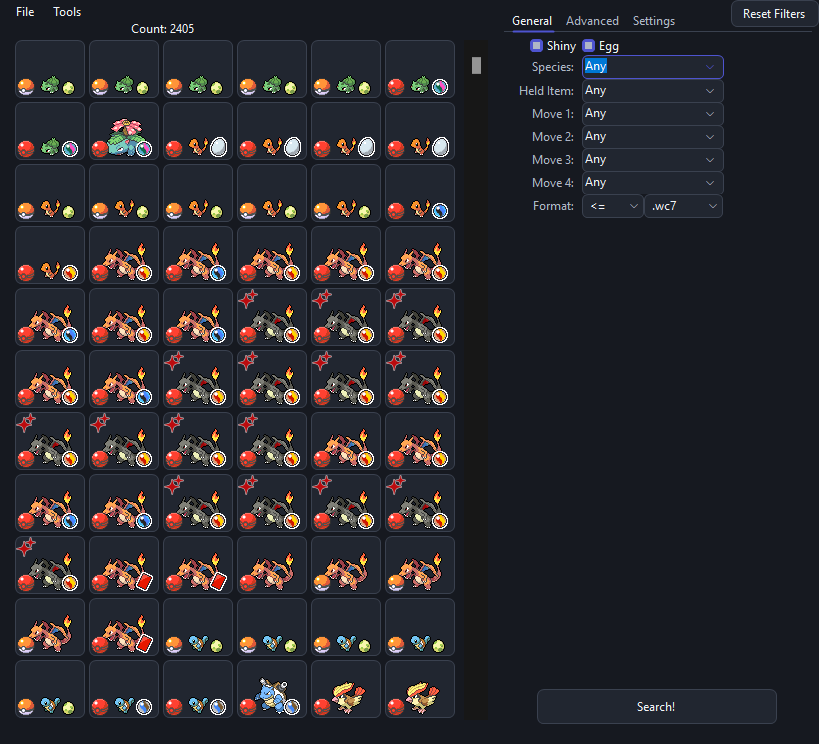
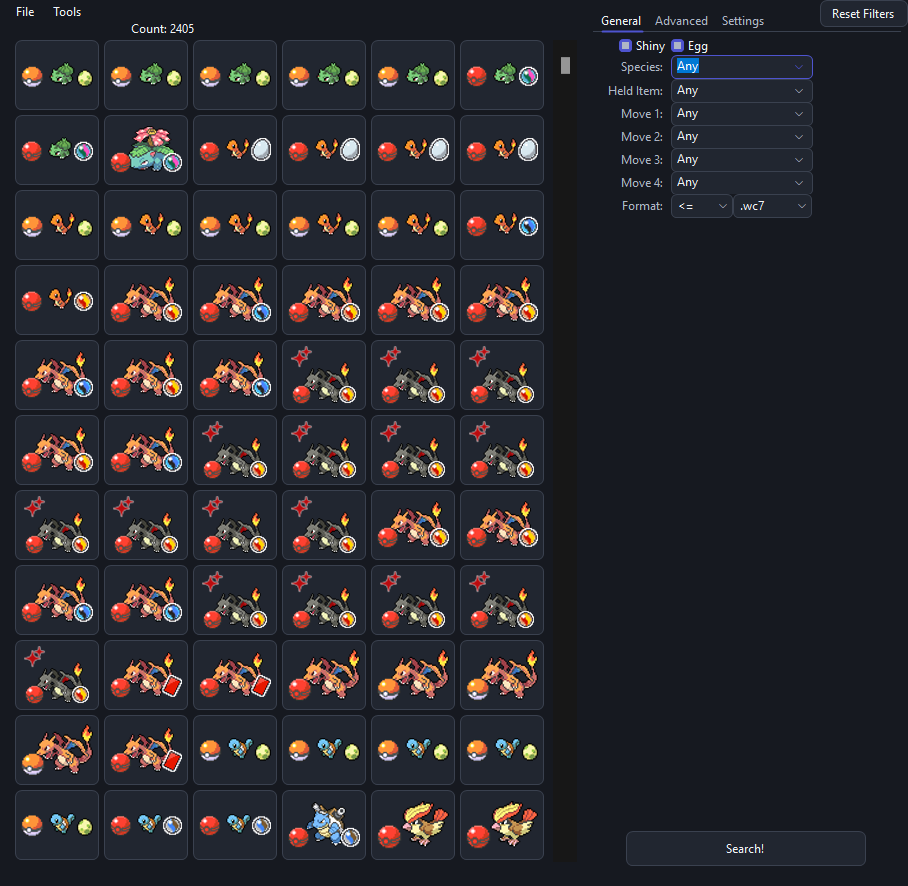
Sprites fill their slot tiles and the summary card, party tiles match the box tiles, fix a startup crash when the splash screen closes, refreshed screenshots

diff --git a/PKHeX.WinForms/Controls/PKM Editor/SelectablePictureBox.cs b/PKHeX.WinForms/Controls/PKM Editor/SelectablePictureBox.cs
@@ -1,5 +1,8 @@
 using System;
 using System.Drawing;
+using System.Drawing.Drawing2D;
+using System.Drawing.Imaging;
+using System.Runtime.InteropServices;
 using System.Windows.Forms;
 using System.Windows.Forms.Automation;
 using PKHeX.WinForms.Theming;
@@ -20,6 +23,11 @@ public class SelectablePictureBox : PictureBox
     /// Draws the control as a rounded slot tile (used by box/party grids) instead of a plain rectangle.
     /// </summary>
     public bool DrawTile { get; set; }
+
+    /// <summary>
+    /// Shows the visible part of the sprite enlarged to fill the control (always on for <see cref="DrawTile"/>).
+    /// </summary>
+    public bool ZoomSprite { get; set; }
 
     protected override void OnMouseDown(MouseEventArgs e)
     {
@@ -62,13 +70,24 @@ public class SelectablePictureBox : PictureBox
         if (BackColor.A != 0) // slot state tint (e.g. invalid data)
             Shapes.Fill(g, tile, radius, BackColor);
 
-        if (BackgroundImage is { } bg)
-            g.DrawImage(bg, (Width - bg.Width) / 2, (Height - bg.Height) / 2, bg.Width, bg.Height);
+        if (BackgroundImage is { } bg) // hover / drag highlight: a full-sprite glow, stretched over the tile
+        {
+            g.InterpolationMode = InterpolationMode.HighQualityBilinear;
+            g.DrawImage(bg, Rectangle.Inflate(tile, -2, -2));
+        }
     }
 
     protected override void OnPaint(PaintEventArgs pe)
     {
-        base.OnPaint(pe);
+        if ((DrawTile || ZoomSprite) && Image is Bitmap sprite)
+        {
+            var s = GetTileSprite(sprite);
+            pe.Graphics.DrawImageUnscaled(s, (Width - s.Width) / 2, (Height - s.Height) / 2);
+        }
+        else
+        {
+            base.OnPaint(pe);
+        }
         if (!Focused)
             return;
         var rc = ClientRectangle;
@@ -82,5 +101,88 @@ public class SelectablePictureBox : PictureBox
         rc.Height -= 2;
         rc.Offset(1, 1);
         Shapes.Fill(pe.Graphics, rc, LogicalToDeviceUnits(6), Color.Empty, Theme.Current.Accent, 2f);
+    }
+
+    // Slot sprites sit on a mostly empty canvas; tiles show the visible part (Pokémon plus its item / shiny marks)
+    // enlarged to fill the tile. Rendered once per sprite and tile size.
+    private Bitmap? _tileSprite;
+    private Image? _tileSource;
+    private Size _tileSize;
+
+    private Bitmap GetTileSprite(Bitmap src)
+    {
+        if (_tileSprite is not null && ReferenceEquals(_tileSource, src) && _tileSize == Size)
+            return _tileSprite;
+        _tileSprite?.Dispose();
+        (_tileSource, _tileSize) = (src, Size);
+
+        var box = OpaqueBounds(src);
+        int pad = LogicalToDeviceUnits(6);
+        float canvasFit = Math.Min((float)Width / src.Width, (float)Height / src.Height);
+        float contentFit = Math.Min((float)(Width - (2 * pad)) / box.Width, (float)(Height - (2 * pad)) / box.Height);
+        // Same zoom for most Pokémon (so sizes stay comparable); large ones shrink to stay inside the tile.
+        float scale = Math.Max(Math.Min(canvasFit * 1.4f, contentFit), Math.Min(1f, canvasFit));
+
+        int w = Math.Max(1, (int)Math.Round(box.Width * scale));
+        int h = Math.Max(1, (int)Math.Round(box.Height * scale));
+        var result = new Bitmap(w, h);
+        using var g = Graphics.FromImage(result);
+        g.PixelOffsetMode = PixelOffsetMode.HighQuality;
+        g.InterpolationMode = InterpolationMode.HighQualityBicubic;
+        int k = (int)Math.Ceiling(scale);
+        if (k <= 1)
+        {
+            g.DrawImage(src, new Rectangle(0, 0, w, h), box, GraphicsUnit.Pixel);
+        }
+        else
+        {
+            // Pixel art: enlarge by a whole factor with hard edges first, then smooth down to the final size.
+            using var up = new Bitmap(box.Width * k, box.Height * k);
+            using (var gu = Graphics.FromImage(up))
+            {
+                gu.InterpolationMode = InterpolationMode.NearestNeighbor;
+                gu.PixelOffsetMode = PixelOffsetMode.Half;
+                gu.DrawImage(src, new Rectangle(0, 0, up.Width, up.Height), box, GraphicsUnit.Pixel);
+            }
+            g.DrawImage(up, new Rectangle(0, 0, w, h));
+        }
+        return _tileSprite = result;
+    }
+
+    /// <summary> Bounding box of the pixels that are not (nearly) transparent; the whole image if there are none. </summary>
+    private static Rectangle OpaqueBounds(Bitmap bmp)
+    {
+        var full = new Rectangle(Point.Empty, bmp.Size);
+        var data = bmp.LockBits(full, ImageLockMode.ReadOnly, PixelFormat.Format32bppArgb);
+        try
+        {
+            int left = bmp.Width, top = bmp.Height, right = -1, bottom = -1;
+            var row = new byte[data.Stride];
+            for (int y = 0; y < bmp.Height; y++)
+            {
+                Marshal.Copy(data.Scan0 + (y * data.Stride), row, 0, row.Length);
+                for (int x = 0; x < bmp.Width; x++)
+                {
+                    if (row[(x * 4) + 3] < 16)
+                        continue;
+                    left = Math.Min(left, x);
+                    right = Math.Max(right, x);
+                    top = Math.Min(top, y);
+                    bottom = y;
+                }
+            }
+            return right < 0 ? full : Rectangle.FromLTRB(left, top, right + 1, bottom + 1);
+        }
+        finally
+        {
+            bmp.UnlockBits(data);
+        }
+    }
+
+    protected override void Dispose(bool disposing)
+    {
+        if (disposing)
+            _tileSprite?.Dispose();
+        base.Dispose(disposing);
     }
 }

diff --git a/PKHeX.WinForms/Controls/SAV Editor/SAVEditor.cs b/PKHeX.WinForms/Controls/SAV Editor/SAVEditor.cs
@@ -70,6 +70,7 @@ public partial class SAVEditor : UserControl, ISlotViewer<PictureBox>, ISaveFile
     {
         InitializeComponent();
         Tab_Box.Resize += (_, _) => FitBox();
+        Tab_PartyBattle.Resize += (_, _) => FitParty();
         InitializeToolTiles();
 
         L_SlotOccupied = [L_DC1, L_DC2];
@@ -1243,6 +1244,17 @@ public partial class SAVEditor : UserControl, ISlotViewer<PictureBox>, ISaveFile
         Box.RecenterControls();
         Box.HorizontallyCenter(Tab_Box);
         Box.Top = pad;
+        FitParty();
+    }
+
+    // Party tiles match the box tiles; the party sits centered in its tab.
+    private void FitParty()
+    {
+        if (Box.BoxPokeGrid.Entries.Count == 0)
+            return;
+        SL_Party.FitTiles(Box.BoxPokeGrid.Entries[0].Size);
+        SL_Party.Location = new Point((Tab_PartyBattle.ClientSize.Width - SL_Party.Width) / 2,
+            Math.Max(LogicalToDeviceUnits(8), (Tab_PartyBattle.ClientSize.Height - SL_Party.Height) / 2));
     }
 
     private void ToggleViewReset()
@@ -1279,7 +1291,7 @@ public partial class SAVEditor : UserControl, ISlotViewer<PictureBox>, ISaveFile
             bool newSlots = SL_Party.InitializeFromSAV(SAV);
             if (newSlots)
             {
-                SL_Party.HorizontallyCenter(Tab_PartyBattle);
+                FitParty();
                 foreach (var pb in SL_Party.SlotPictureBoxes)
                     pb.ContextMenuStrip = menu.mnuVSD;
             }

diff --git a/PKHeX.WinForms/MainWindow/Main.cs b/PKHeX.WinForms/MainWindow/Main.cs
@@ -44,6 +44,9 @@ public partial class Main : Form, Theming.IThemedControl
 
         // Host the drag-out sprite inside the hero card so its transparent background shows the card, not the pane.
         PN_HeroCard.Controls.Add(dragout);
+        dragout.ZoomSprite = true; // the sprite fills the card (see the resize below)
+        PN_HeroCard.SizeChanged += (_, _) => dragout.Size = PN_HeroCard.ClientSize - new Size(8, 8);
+        dragout.Size = PN_HeroCard.ClientSize - new Size(8, 8);
         EventHandler centerDragout = (_, _) => dragout.Location = new Point((PN_HeroCard.Width - dragout.Width) / 2, (PN_HeroCard.Height - dragout.Height) / 2);
         dragout.SizeChanged += centerDragout;
         centerDragout(null, EventArgs.Empty);
@@ -829,7 +832,6 @@ public partial class Main : Form, Theming.IThemedControl
         ParseSettings.InitFromSaveFileData(sav); // physical GB, no longer used in logic
         RecentTrainerCache.SetRecentTrainer(sav);
         SpriteUtil.Initialize(sav); // refresh sprite generator
-        dragout.Size = new Size(SpriteUtil.Spriter.Width, SpriteUtil.Spriter.Height);
 
         // clean fields
         Menu_ExportSAV.Enabled = sav.State.Exportable;

diff --git a/PKHeX.WinForms/Theming/Theme.cs b/PKHeX.WinForms/Theming/Theme.cs
@@ -1,4 +1,5 @@
 using System;
+using System.Linq;
 using System.Runtime.CompilerServices;
 using System.Drawing;
 using System.Windows.Forms;
@@ -193,8 +194,22 @@ public static class Theme
     /// <summary> Themes every open form that is not themed yet (normally done on the first idle after it opens). </summary>
     public static void HookOpenForms()
     {
-        // Application.OpenForms spans threads; skip forms on other UI threads.
-        foreach (Form f in Application.OpenForms)
+        // Application.OpenForms spans threads (the splash screen closes on its own thread), so it can change while
+        // being read: copy it first, retrying if it changed mid-copy. Forms on other UI threads are skipped.
+        Form[] forms = [];
+        for (int attempt = 0; attempt < 5; attempt++)
+        {
+            try
+            {
+                forms = [.. Application.OpenForms.Cast<Form>()];
+                break;
+            }
+            catch (InvalidOperationException)
+            {
+            }
+        }
+
+        foreach (var f in forms)
         {
             if (f.IsDisposed || f.InvokeRequired)
                 continue;

diff --git a/PKHeX.WinForms/Controls/SAV Editor/PartyEditor.cs b/PKHeX.WinForms/Controls/SAV Editor/PartyEditor.cs
@@ -1,5 +1,6 @@
 using System;
 using System.Collections.Generic;
+using System.Drawing;
 using System.Windows.Forms;
 using PKHeX.Core;
 using PKHeX.Drawing.PokeSprite;
@@ -31,6 +32,16 @@ public partial class PartyEditor : UserControl, ISlotViewer<PictureBox>
         PartyPokeGrid.HorizontallyCenter(this);
         InitializeSlots();
         return true;
+    }
+
+    /// <summary> Resizes the party tiles to <paramref name="tile"/> (e.g. the box tiles' size, so both views match). </summary>
+    internal void FitTiles(Size tile)
+    {
+        if (PartyPokeGrid.Entries.Count == 0)
+            return;
+        int gap = (int)Math.Round(4 * Theming.Theme.UiScale);
+        PartyPokeGrid.FitTo(new Size(2 * (tile.Width + gap), 3 * (tile.Height + gap)));
+        Size = PartyPokeGrid.Size;
     }
 
     private void InitializeSlots()
